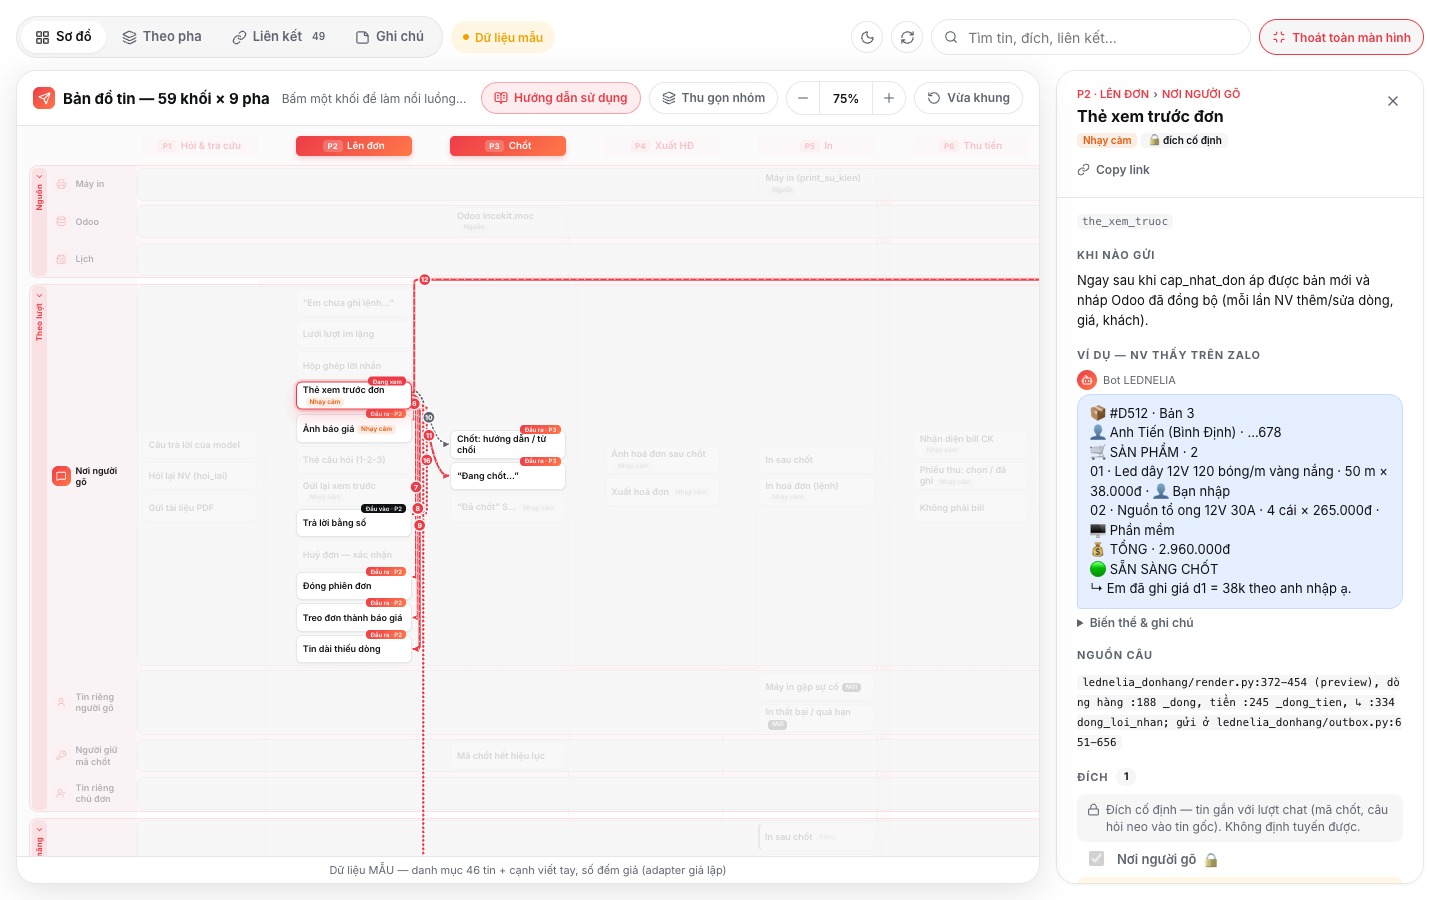
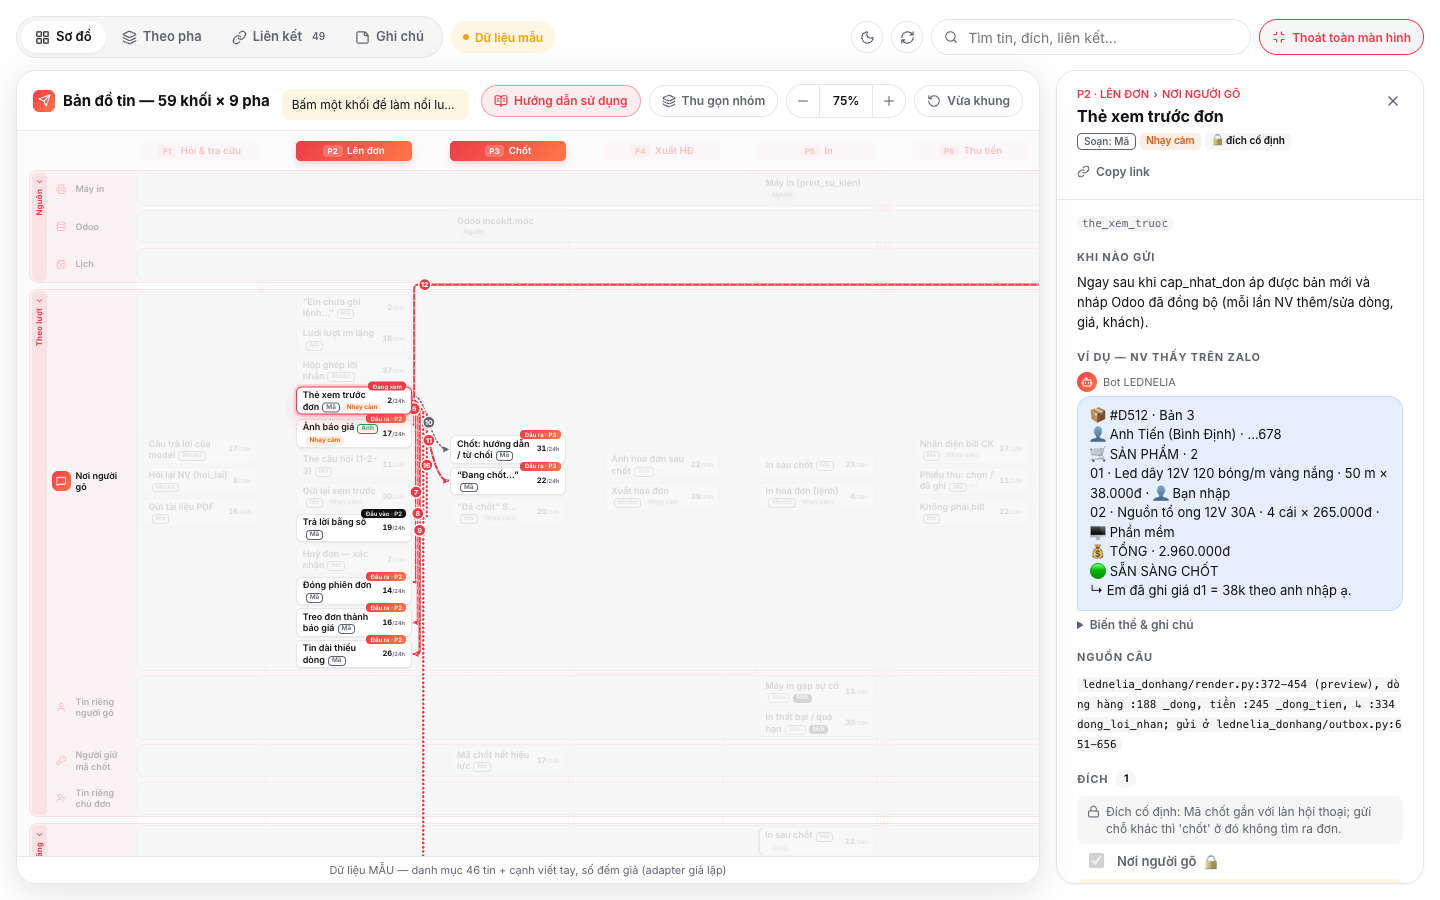
test(ban-do-tin): chụp lại 33 trạng thái sau bổ sung 02/10 (nhãn ai soạn, số 24h trên khối, 🔒 lý do khoá, 💡 gợi ý)

diff --git a/frontend/visual/ban-do-tin/so-sanh.html b/frontend/visual/ban-do-tin/so-sanh.html
@@ -7,7 +7,7 @@ table{border-collapse:collapse}td,th{border:1px solid #e7e7ea;padding:4px 8px;fo
 </style></head><body><h1>So ảnh: Bản đồ tin ↔ tham chiếu go.noti.vn (1440×900 / 390×844)</h1>
 <p>Bố cục/hình học phải khớp; nội dung khác (dữ liệu của mình: 9 pha × 18 hàng thay vì 6 × 19). Ảnh tham chiếu chỉ để so nội bộ, không đưa vào sản phẩm.</p>
 <table><tr><th>số đo</th><th>SPEC</th><th>đo ở 01 (gốc, chia zoom)</th></tr><tr><td>khoi</td><td>150 × 38, bo 8</td><td>[150,38]</td></tr><tr><td>tieu_de_pha</td><td>cao 26, rộng = cột</td><td>[150,26]</td></tr><tr><td>panel_rong</td><td>368 (khổ 1440)</td><td>368</td></tr><tr><td>thanh_tab_cao</td><td>42</td><td>42</td></tr><tr><td>o_tim</td><td>320 × 36</td><td>[320,36]</td></tr>
-<tr><td>bấm khối → khung kế tiếp</td><td>≤ 50 ms</td><td>{"js":{"lon_nhat":11.3,"trung_vi":2.1},"den_khung_ke":{"lon_nhat":32.7,"trung_vi":8.7},"url":"http://localhost:5291/visual/ban-do-tin/xem.html"}</td></tr></table>
+<tr><td>bấm khối → khung kế tiếp</td><td>≤ 50 ms</td><td>{"js":{"lon_nhat":16.3,"trung_vi":2.2},"den_khung_ke":{"lon_nhat":36.2,"trung_vi":8.3},"url":"http://localhost:5291/visual/ban-do-tin/xem.html"}</td></tr></table>
 <section><h2>01-desktop-light-default</h2><div class="hai">
   <figure><figcaption>Tham chiếu (go.noti.vn — chỉ so nội bộ)</figcaption><img src="file:///Users/joshung/Documents/ai_agent/wt-thong-bao/docs/78-thong-bao-chu-dong/tham-chieu-noti/anh/01-desktop-light-default.png" loading="lazy"></figure>
   <figure><figcaption>Bản đồ tin (của mình)</figcaption><img src="anh/01-desktop-light-default.png" loading="lazy"></figure></div>
